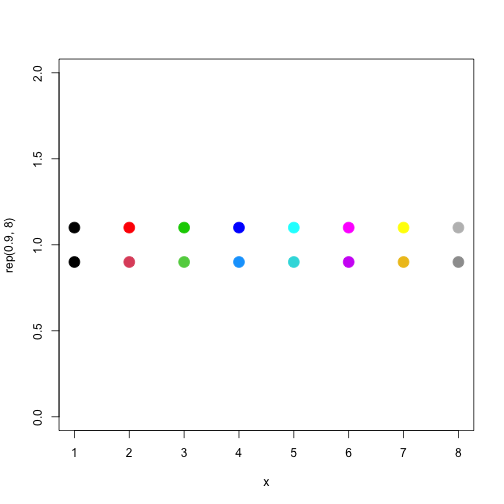
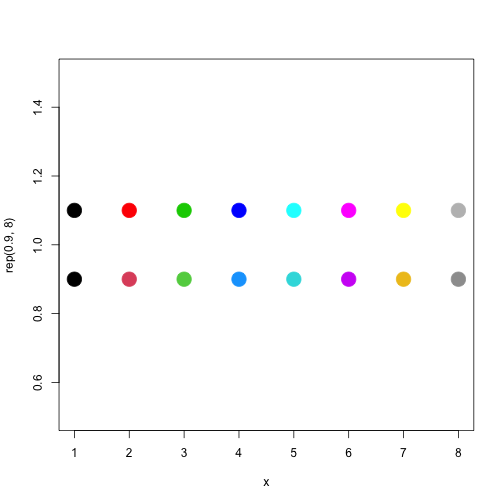
.

diff --git a/_posts/2019-12-15-new-R-palette.md b/_posts/2019-12-15-new-R-palette.md
@@ -50,9 +50,9 @@ Here's a simple example that shows the new scheme
 {% highlight r linenos=table %}
 x <- 1:8
 palette("R4") # not needed unless R3 was previously selected
-plot(x, rep(0.9, 8), ylim=c(0,2), pch=20, cex=3, col=1:8)
+plot(x, rep(0.9, 8), ylim=c(0.5,1.5), pch=20, cex=4, col=1:8)
 palette("R3") # for the old scheme
-points(x, rep(1.1, 8), pch=20, cex=3, col=1:8)
+points(x, rep(1.1, 8), pch=20, cex=4, col=1:8)
 {% endhighlight %}
 
 ![center](http://dankelley.github.io/figs/2019-12-15-new-R-palette/unnamed-chunk-4-1.png)
